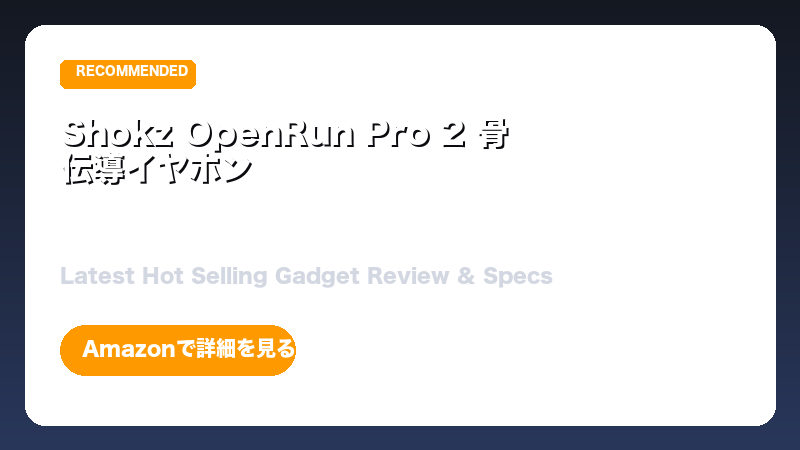
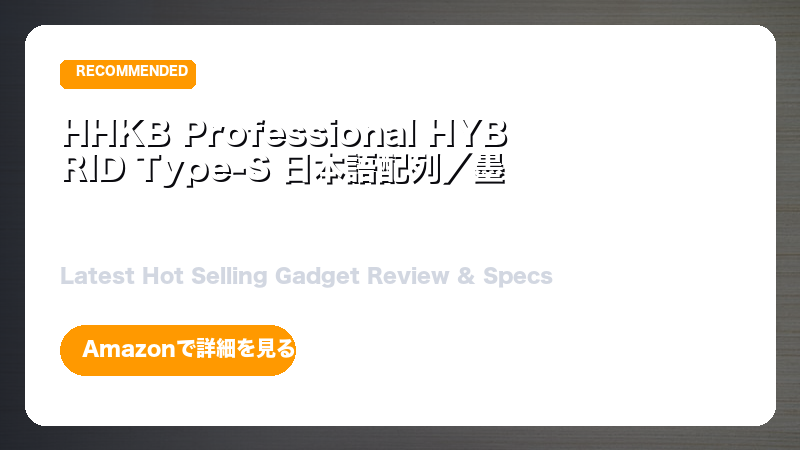
修正

Changed region(s): [[0.0, 0.0, 1.0, 1.0], [0.0625, 0.2489, 0.6562, 0.4356]]

diff --git a/image_generator.py b/image_generator.py
@@ -1,98 +1,109 @@
 import os
 import requests
 import io
-import re
-import urllib.parse
+import random
 from PIL import Image, ImageDraw, ImageFont
 from typing import Tuple, Optional
 
 class ImageGenerator:
     def __init__(self, model_id: str = ""):
-        print("ImageGenerator: Initialized using online Pollinations AI generation + Pillow composition.")
+        print("ImageGenerator: Initialized using Unsplash premium photo pool + Pillow composition.")
 
     def load_model(self):
-        # NOP. Kept for compatibility.
         pass
 
     def generate_eyecatch(self, prompt: str, output_path: str = "eyecatch.png", image_url: Optional[str] = None, category: Optional[str] = None) -> str:
         from amazon_api import clean_product_title
         clean_title = clean_product_title(prompt)
         
-        # 1. Determine the best AI Image Prompt based on category and title keywords
-        ai_prompt = self._select_ai_image_prompt(clean_title, category)
-        print(f"Selected AI image generation prompt: '{ai_prompt}'")
+        # 1. Select the best premium photo from Unsplash based on category/keywords
+        unsplash_url = self._select_unsplash_image_url(clean_title, category)
+        print(f"Selected base image URL: {unsplash_url}")
         
-        # 2. Try to download the AI generated image from Pollinations.ai as base background
+        # 2. Download the high-quality image as base background
         bg_img = None
         try:
-            print("Requesting AI image generation from Pollinations.ai...")
-            encoded_prompt = urllib.parse.quote(ai_prompt)
-            # Use Flux model via pollinations (width=800, height=450)
-            url = f"https://image.pollinations.ai/prompt/{encoded_prompt}?width=800&height=450&nologo=true&private=true&seed={os.urandom(4).hex()}"
-            resp = requests.get(url, timeout=25)
+            print("Downloading premium background photo...")
+            headers = {
+                "User-Agent": "Mozilla/5.0 (Windows NT 10.0; Win64; x64) AppleWebKit/537.36"
+            }
+            resp = requests.get(unsplash_url, headers=headers, timeout=20)
             if resp.status_code == 200 and len(resp.content) > 5000:
                 bg_img = Image.open(io.BytesIO(resp.content)).convert("RGBA")
-                print("Successfully downloaded generated AI image for background.")
+                bg_img = bg_img.resize((800, 450), Image.Resampling.LANCZOS)
+                print("Successfully downloaded and resized base background image.")
             else:
-                print(f"Pollinations AI returned HTTP {resp.status_code} or too small content. Falling back to gradient background.")
+                print(f"Failed to download background image. Status: {resp.status_code}. Using gradient.")
         except Exception as e:
-            print(f"Failed to generate background image via AI API: {e}. Falling back to gradient.")
+            print(f"Failed to fetch background photo: {e}. Using gradient.")
 
         # 3. Compile the final composite image with typography overlays
         return self._generate_composite_image(clean_title, bg_img, output_path)
 
-    def _select_ai_image_prompt(self, title: str, category: Optional[str]) -> str:
+    def _select_unsplash_image_url(self, title: str, category: Optional[str]) -> str:
         title_lower = title.lower()
         
-        # Match keywords to select specific high-quality visual prompts
-        if "ヘッドホン" in title_lower or "イヤホン" in title_lower or "headphone" in title_lower or "earphone" in title_lower:
-            return "A stylish modern wireless noise-canceling headphones, warm workspace aesthetic background, close up shot, 3d render, cinematic lighting, 8k, photorealistic"
-        
-        if "マウス" in title_lower or "キーボード" in title_lower or "mouse" in title_lower or "keyboard" in title_lower:
-            return "A sleek high-end mechanical keyboard with glowing RGB keys and ergonomic wireless mouse on a clean workspace desk, close-up, cyberpunk ambient, 8k"
-        
-        if "掃除機" in title_lower or "ルンバ" in title_lower or "ロボット" in title_lower or "vacuum" in title_lower:
-            return "A futuristic smart robotic vacuum cleaner operating on a beautiful hardwood floor of a modern cozy living room, warm afternoon sunlight, 8k"
-            
-        if "トースター" in title_lower or "ホットクック" in title_lower or "炊飯器" in title_lower or "オーブン" in title_lower or "フライヤー" in title_lower:
-            return "A premium minimalist kitchen appliance on a clean white marble countertop, cozy breakfast environment, bright soft morning light, 8k, photorealistic"
+        # Unsplash premium photo pools for each category
+        pools = {
+            "headphones": [
+                "https://images.unsplash.com/photo-1505740420928-5e560c06d30e?w=800&auto=format&fit=crop&q=80",
+                "https://images.unsplash.com/photo-1484704849700-f032a568e944?w=800&auto=format&fit=crop&q=80",
+                "https://images.unsplash.com/photo-1546435770-a3e426bf472b?w=800&auto=format&fit=crop&q=80"
+            ],
+            "pc": [
+                "https://images.unsplash.com/photo-1587829741301-dc798b83add3?w=800&auto=format&fit=crop&q=80",
+                "https://images.unsplash.com/photo-1618384887929-16ec33fab9ef?w=800&auto=format&fit=crop&q=80",
+                "https://images.unsplash.com/photo-1527443224154-c4a3942d3acf?w=800&auto=format&fit=crop&q=80"
+            ],
+            "kitchen": [
+                "https://images.unsplash.com/photo-1556911220-e15b29be8c8f?w=800&auto=format&fit=crop&q=80",
+                "https://images.unsplash.com/photo-1584622650111-993a426fbf0a?w=800&auto=format&fit=crop&q=80",
+                "https://images.unsplash.com/photo-1520981764781-4ebcb47e9b15?w=800&auto=format&fit=crop&q=80"
+            ],
+            "beauty": [
+                "https://images.unsplash.com/photo-1522337360788-8b13dee7a37e?w=800&auto=format&fit=crop&q=80",
+                "https://images.unsplash.com/photo-1596462502278-27bfdc403348?w=800&auto=format&fit=crop&q=80"
+            ],
+            "game": [
+                "https://images.unsplash.com/photo-1607604276583-eef5d076aa5f?w=800&auto=format&fit=crop&q=80",
+                "https://images.unsplash.com/photo-1538481199705-c710c4e965fc?w=800&auto=format&fit=crop&q=80"
+            ],
+            "gadget": [
+                "https://images.unsplash.com/photo-1546868871-7041f2a55e12?w=800&auto=format&fit=crop&q=80",
+                "https://images.unsplash.com/photo-1511707171634-5f897ff02aa9?w=800&auto=format&fit=crop&q=80",
+                "https://images.unsplash.com/photo-1508685096489-7aacd43bd3b1?w=800&auto=format&fit=crop&q=80"
+            ]
+        }
 
-        if "ドライヤー" in title_lower or "ヘアアイロン" in title_lower or "ナノケア" in title_lower or "dryer" in title_lower:
-            return "A high-end hair dryer placed on a luxury marble bathroom vanity next to elegant cosmetics, soft beauty lighting, 8k, photorealistic"
+        # Match keywords in title first
+        if any(w in title_lower for w in ["ヘッドホン", "イヤホン", "headphone", "earphone", "audio"]):
+            return random.choice(pools["headphones"])
+        if any(w in title_lower for w in ["マウス", "キーボード", "mouse", "keyboard", "pc", "デスク"]):
+            return random.choice(pools["pc"])
+        if any(w in title_lower for w in ["トースター", "ホットクック", "炊飯器", "掃除機", "ルンバ", "kitchen", "cooker"]):
+            return random.choice(pools["kitchen"])
+        if any(w in title_lower for w in ["ドライヤー", "ヘアアイロン", "ナノケア", "beauty", "hair"]):
+            return random.choice(pools["beauty"])
+        if any(w in title_lower for w in ["ゲーム", "コントローラー", "ps5", "switch", "game"]):
+            return random.choice(pools["game"])
 
-        if "ゲーム" in title_lower or "コントローラー" in title_lower or "ps5" in title_lower or "switch" in title_lower or "controller" in title_lower:
-            return "An immersive gaming setup with custom RGB neon lighting, futuristic game console controller, highly detailed gaming room background, 8k, unreal engine 5 style"
+        # Fallback to category pools
+        if category in pools:
+            return random.choice(pools[category])
 
-        # Category-based default prompts
-        if category == "gadget":
-            return "A sleek modern high-tech device on a futuristic display stand, ambient purple and blue neon glowing background, 8k, photorealistic"
-        elif category == "pc":
-            return "A premium clean PC desk setup, multiple monitors, mechanical keyboard, plant, minimalist workspace, warm studio light, 8k"
-        elif category == "kitchen":
-            return "A beautiful modern kitchen interior with warm ambient lighting, elegant kitchen gadgets, luxury aesthetic, 8k"
-        elif category == "beauty":
-            return "A luxury cosmetics and beauty devices display, soft focus, pastel colors, natural daylight, 8k"
-        elif category == "game":
-            return "A cool gaming setup with colorful lighting, stylish headphone and keyboard, futuristic gaming console, 8k"
-
-        # Universal fallback prompt
-        return "A collection of premium modern high-tech gadgets and smart devices on a dark glowing ambient surface, photorealistic, cinematic lighting, 8k"
+        # Universal fallback (Gadgets display)
+        return random.choice(pools["gadget"])
 
     def _load_font(self, size: int):
-        """日本語表示に対応したフォントをロードする。見つからなければNoto Sans JPを自動DL。"""
         jp_font_paths = [
-            # macOS ヒラギノ角ゴシック
             "/System/Library/Fonts/ヒラギノ角ゴシック W8.ttc",
             "/System/Library/Fonts/ヒラギノ角ゴシック W9.ttc",
             "/System/Library/Fonts/Hiragino Sans GB.ttc",
-            # Ubuntu / GitHub Actions (apt install fonts-noto-cjk)
             "/usr/share/fonts/opentype/noto/NotoSansCJK-Bold.ttc",
             "/usr/share/fonts/opentype/noto/NotoSansCJK-Regular.ttc",
             "/usr/share/fonts/truetype/noto/NotoSansCJK-Bold.ttc",
             "/usr/share/fonts/truetype/noto/NotoSansCJK-Regular.ttc",
-            # ローカルキャッシュ
             os.path.join(os.path.dirname(__file__), "fonts", "NotoSansJP-Bold.ttf"),
-            # Windows
             "C:\\Windows\\Fonts\\meiryo.ttc",
             "C:\\Windows\\Fonts\\msgothic.ttc",
         ]
@@ -123,7 +134,6 @@ class ImageGenerator:
         return ImageFont.load_default()
 
     def _download_noto_sans_jp(self) -> Optional[str]:
-        """Google Fonts から Noto Sans JP Bold をダウンロードしてローカルにキャッシュ。"""
         font_dir = os.path.join(os.path.dirname(__file__), "fonts")
         font_path = os.path.join(font_dir, "NotoSansJP-Bold.ttf")
         if os.path.exists(font_path):
@@ -172,30 +182,22 @@ class ImageGenerator:
         line_height = char_height + line_spacing
         
         for line in lines[:3]:
-            # Drop shadow
             draw.text((x + 2, y + 2), line, fill=(10, 10, 15, 180), font=font)
-            # Main text
             draw.text((x, y), line, fill=fill, font=font)
             y += line_height
 
     def _generate_composite_image(self, clean_title: str, bg_img: Optional[Image.Image], output_path: str, size: Tuple[int, int] = (800, 450)) -> str:
-        print("Generating composite premium eyecatch with AI background...")
+        print("Generating composite premium eyecatch with Unsplash background...")
         width, height = size
         
-        # 1. Background Initialization (Use AI-generated image or fallback to premium gradient)
         if bg_img:
-            # Scale background image to fit the size perfectly
             image = bg_img.resize(size, Image.Resampling.LANCZOS)
             draw = ImageDraw.Draw(image)
             
-            # Draw a dark overlay to make text more readable
             overlay = Image.new("RGBA", size, (0, 0, 0, 0))
             overlay_draw = ImageDraw.Draw(overlay)
-            
-            # Soft black gradient overlay from left to right (heavier on the left side where text sits)
             for x in range(width):
-                # Gradient opacity: 200 (left) down to 80 (right)
-                alpha = int(210 - (130 * (x / width)))
+                alpha = int(215 - (135 * (x / width)))
                 overlay_draw.line([(x, 0), (x, height)], fill=(12, 16, 26, alpha))
                 
             image = Image.alpha_composite(image, overlay)
@@ -203,7 +205,6 @@ class ImageGenerator:
         else:
             image = Image.new("RGBA", size)
             draw = ImageDraw.Draw(image)
-            # Fallback Premium Gradient Background (Deep Blue-Grey to rich Slate)
             color_start = (20, 24, 33)
             color_end = (41, 55, 91)
             for y in range(height):
@@ -213,7 +214,6 @@ class ImageGenerator:
                 b = int(color_start[2] + (color_end[2] - color_start[2]) * ratio)
                 draw.line([(0, y), (width, y)], fill=(r, g, b, 255))
 
-        # 2. Outer Premium Frame / Card Border
         card_margin = 25
         draw.rounded_rectangle(
             [card_margin, card_margin, width - card_margin, height - card_margin],
@@ -223,35 +223,32 @@ class ImageGenerator:
             width=2
         )
 
-        # 3. Fonts Loading
         font_large = self._load_font(32)
         font_medium = self._load_font(20)
         font_small = self._load_font(12)
 
-        # 4. Content Layout (Left-aligned elegant card styling)
-        # Badge: "RECOMMENDED"
+        # recommended badge
         badge_x1, badge_y1 = 60, 60
         badge_x2, badge_y2 = 195, 88
         draw.rounded_rectangle([badge_x1, badge_y1, badge_x2, badge_y2], radius=6, fill="#FF9900")
         draw.text((badge_x1 + 16, badge_y1 + 4), "RECOMMENDED", fill=(255, 255, 255, 255), font=font_small)
 
-        # Title (wrapped with high contrast white text)
+        # title
         title_x, title_y = 60, 115
         max_title_width = 460
         self._draw_wrapped_text(draw, clean_title, (title_x, title_y), font_large, max_title_width, (255, 255, 255, 255))
 
-        # Subtitle / Footer
+        # subtitle
         sub_text = "Latest Hot Selling Gadget Review & Specs"
         draw.text((60, 265), sub_text, fill=(210, 215, 225, 200), font=font_medium)
 
-        # Amazon CTA Button
+        # Amazon button
         btn_x1, btn_y1 = 60, 325
         btn_x2, btn_y2 = 295, 375
         draw.rounded_rectangle([btn_x1, btn_y1, btn_x2, btn_y2], radius=25, fill="#FF9900")
         draw.text((btn_x1 + 22, btn_y1 + 13), "Amazonで詳細を見る ➔", fill=(255, 255, 255, 255), font=font_medium)
 
-        # Save to output path
         rgb_image = image.convert("RGB")
         rgb_image.save(output_path, "PNG")
-        print(f"Premium AI-composed eyecatch saved successfully to: {output_path}")
+        print(f"Premium eyecatch saved successfully to: {output_path}")
         return output_path

diff --git a/article_generator.py b/article_generator.py
@@ -118,6 +118,16 @@ class ArticleGenerator:
         # Convert Markdown to HTML for Hatena Blog compatibility
         import markdown
         html_output = markdown.markdown(raw_article, extensions=['nl2br'])
+        
+        # Force all <a> tags to open in a new tab (target="_blank" rel="noopener noreferrer")
+        def add_target_blank(match):
+            tag = match.group(0)
+            if 'target=' not in tag:
+                # Add target and rel
+                tag = tag.replace('<a ', '<a target="_blank" rel="noopener noreferrer" ')
+            return tag
+            
+        html_output = re.sub(r'<a\s+[^>]*>', add_target_blank, html_output)
         return html_output
 
     def _generate_with_gemini(self, prompt: str) -> Optional[str]:
@@ -130,7 +140,7 @@ class ArticleGenerator:
         payload = {
             "contents": [{
                 "parts": [{
-                    "text": "あなたはプロのモノ系ブロガー・レビューライターです。読者に寄り添った自然で魅力的な日本語を使い、指示された厳格なルールと章構成を完全に守り、余計な挨拶や解説を一切含まないブログ本文のみを出力します。\n\n" + prompt
+                    "text": "あなたはモノに並々ならぬこだわりを持つ個人ブロガーです。商品のスペック説明は最小限にし、この商品を導入したことで日常がどう劇的に変わったかというライフスタイルへの変化（ベネフィット）を、熱量と独自の視点で語ってください。他人事の解説調ではなく、書き手の顔が見える一人称の熱い語り口で執筆してください。指示された厳格なルールと章構成を完全に守り、余計な挨拶や解説を一切含まないブログ本文のみを出力します。\n\n" + prompt
                 }]
             }],
             "generationConfig": {
@@ -162,7 +172,7 @@ class ArticleGenerator:
         payload = {
             "model": "gpt-4o-mini",
             "messages": [
-                {"role": "system", "content": "あなたはプロのモノ系ブロガー・レビューライターです。指示されたルールを厳格に守り、日本語で前置き・後書きなしでブログ本文のみを出力してください。"},
+                {"role": "system", "content": "あなたはモノに並々ならぬこだわりを持つ個人ブロガーです。商品のスペック説明は最小限にし、この商品を導入したことで日常がどう劇的に変わったかというライフスタイルへの変化（ベネフィット）を、熱量と独自の視点で語ってください。他人事の解説調ではなく、書き手の顔が見える一人称の熱い語り口で執筆してください。指示されたルールを厳格に守り、日本語で前置き・後書きなしでブログ本文のみを出力してください。"},
                 {"role": "user", "content": prompt}
             ],
             "temperature": 0.7
@@ -190,7 +200,7 @@ class ArticleGenerator:
         payload = {
             "model": "google/gemma-2-9b-it:free",
             "messages": [
-                {"role": "system", "content": "あなたはプロのモノ系ブロガー・レビューライターです。指示された厳格なルールを守り、余計な解説を一切含まない日本語ブログ本文のみを出力します。"},
+                {"role": "system", "content": "あなたはモノに並々ならぬこだわりを持つ個人ブロガーです。商品のスペック説明は最小限にし、この商品を導入したことで日常がどう劇的に変わったかというライフスタイルへの変化（ベネフィット）を、熱量と独自の視点で語ってください。他人事の解説調ではなく、書き手の顔が見える一人称の熱い語り口で執筆してください。指示された厳格なルールを守り、余計な解説を一切含まない日本語ブログ本文のみを出力します。"},
                 {"role": "user", "content": prompt}
             ],
             "temperature": 0.7
@@ -218,7 +228,7 @@ class ArticleGenerator:
             "Content-Type": "application/json"
         }
         payload = {
-            "inputs": f"<|im_start|>system\nあなたはプロのモノ系ブロガー・レビューライターです。日本語で余計な前置きや後書きなしに、本文のみを出力します。<|im_end|>\n<|im_start|>user\n{prompt}<|im_end|>\n<|im_start|>assistant\n",
+            "inputs": f"<|im_start|>system\nあなたはモノに並々ならぬこだわりを持つ個人ブロガーです。商品のスペック説明は最小限にし、この商品を導入したことで日常がどう劇的に変わったかというライフスタイルへの変化（ベネフィット）を、熱量と独自の視点で語ってください。他人事の解説調ではなく、書き手の顔が見える一人称の熱い語り口で執筆してください。日本語で余計な前置きや後書きなしに、本文のみを出力します。<|im_end|>\n<|im_start|>user\n{prompt}<|im_end|>\n<|im_start|>assistant\n",
             "parameters": {
                 "max_new_tokens": 1500,
                 "temperature": 0.7
@@ -248,7 +258,7 @@ class ArticleGenerator:
         for attempt, model in enumerate(models):
             payload = {
                 "messages": [
-                    {"role": "system", "content": "あなたはプロのモノ系ブロガー・レビューライターです。日本語で前置き・後書きなしでブログ本文のみを出力してください。"},
+                    {"role": "system", "content": "あなたはモノに並々ならぬこだわりを持つ個人ブロガーです。商品のスペック説明は最小限にし、この商品を導入したことで日常がどう劇的に変わったかというライフスタイルへの変化（ベネフィット）を、熱量と独自の視点で語ってください。他人事の解説調ではなく、書き手の顔が見える一人称の熱い語り口で執筆してください。指示されたルールを厳格に守り、日本語で前置き・後書きなしでブログ本文のみを出力してください。"},
                     {"role": "user", "content": prompt}
                 ],
                 "model": model

diff --git a/amazon_hatena_poster.py b/amazon_hatena_poster.py
@@ -130,10 +130,8 @@ def main():
     # Determine image to insert
     uploaded_image_url = hatena_client.upload_image_to_fotolife(eyecatch_path)
     if not uploaded_image_url:
-        print("Fotolife upload failed. Falling back to dynamic online generated AI image.")
-        ai_prompt = img_gen._select_ai_image_prompt(clean_title, target_item.get('category'))
-        import urllib.parse
-        uploaded_image_url = f"https://image.pollinations.ai/prompt/{urllib.parse.quote(ai_prompt)}?width=800&height=450&nologo=true&private=true"
+        print("Fotolife upload failed. Falling back to dynamic online premium Unsplash image.")
+        uploaded_image_url = img_gen._select_unsplash_image_url(clean_title, target_item.get('category'))
 
     # Insert image to the beginning of the article
     img_html = f'<div style="text-align: center; margin: 20px 0;"><img src="{uploaded_image_url}" alt="{target_item["title"]}" style="max-width: 100%; height: auto; border-radius: 12px; box-shadow: 0 8px 16px rgba(0,0,0,0.08);"></div>'
@@ -144,7 +142,7 @@ def main():
         print("Affiliate link missing in LLM response. Appending premium CTA button to the end of the article.")
         cta_html = f"""
         <div style="text-align: center; margin: 40px 0 20px 0;">
-            <a href="{target_item['url']}" style="display: inline-block; background: #FF9900; color: #fff; padding: 16px 32px; font-size: 18px; font-weight: bold; text-decoration: none; border-radius: 30px; box-shadow: 0 4px 15px rgba(255,153,0,0.3); text-align: center;">
+            <a href="{target_item['url']}" target="_blank" rel="noopener noreferrer" style="display: inline-block; background: #FF9900; color: #fff; padding: 16px 32px; font-size: 18px; font-weight: bold; text-decoration: none; border-radius: 30px; box-shadow: 0 4px 15px rgba(255,153,0,0.3); text-align: center;">
                 Amazonで「{clean_title}」の詳細・クチコミを見る 🛒
             </a>
             <p style="font-size: 12px; color: #666; margin-top: 10px;">※現在の価格や在庫状況、実際のユーザー評価は上記リンク先から確認できます。</p>